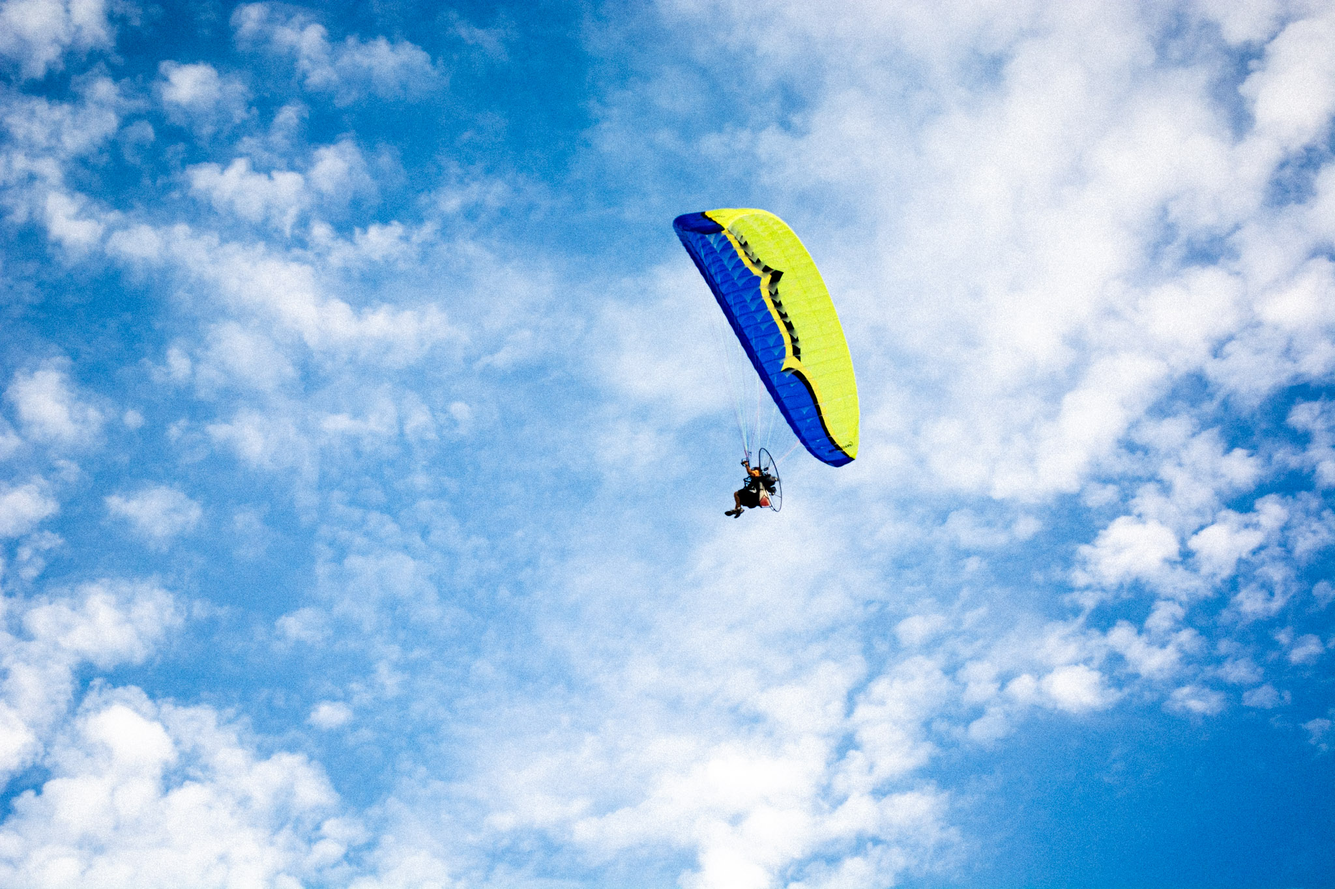
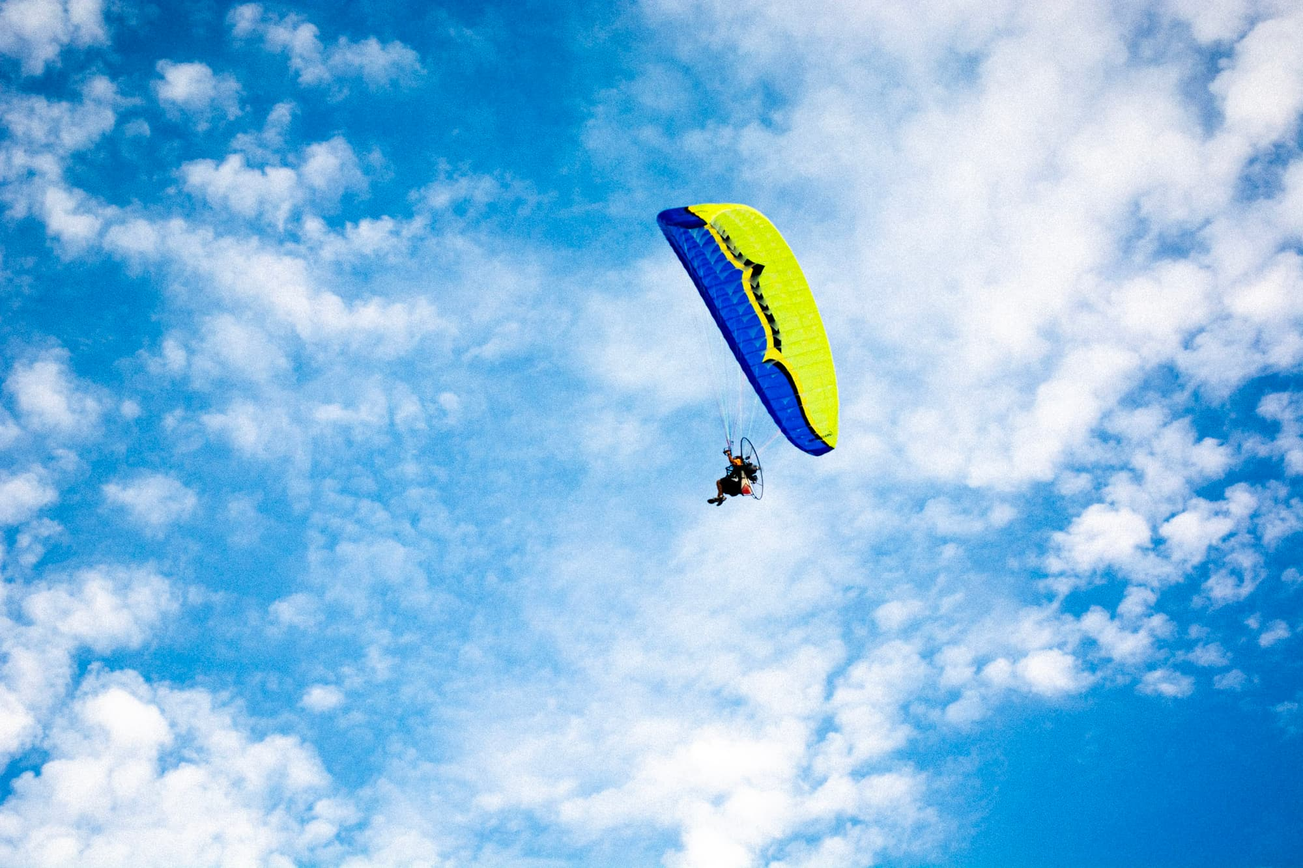
cut the image payload down to what the layout can use
Two separate sources of oversized bytes:

- enhanced-img's default width ladder for an import without a literal `sizes`
  attribute is just [width/2, width], so a 6000px original put a 3000w floor
  against a ~230-460 CSS px gallery tile. The glob now passes an explicit
  480/800/1280/2000 ladder via imagetools' `w` directive, which is the only place
  it can go — enhancedImages() takes no options.
- static/project-media/ is served verbatim (covers double as og:image, and body
  images come out of marked as raw <img src>), so nothing there gets responsive
  variants. Re-encoded once to a 2000px long edge, progressive, quality 76:
  3.4 MB -> 1.5 MB across the seven files. docs/cms.md records the budget so
  future uploads keep it.

diff --git a/src/lib/content/pictures.ts b/src/lib/content/pictures.ts
@@ -16,9 +16,33 @@ type EnhancedPicture = {
 	sources?: Record<string, string>;
 };
 
+/**
+ * The responsive width ladder every gallery picture is rendered at.
+ *
+ * enhanced-img has no plugin-level option for this (`enhancedImages()` takes no
+ * arguments), so the ladder is passed per-import as imagetools' `w` directive,
+ * which overrides the defaults enhanced-img computes. Its default for an import
+ * without a literal `sizes` attribute is just `[width / 2, width]` — two rungs.
+ * For a 6000px original that means a 3000w floor against a ~230-460 CSS px
+ * gallery tile, i.e. an order of magnitude more pixels than any slot can use.
+ *
+ * The rungs below bracket the sizes actually requested on this site:
+ *   480  — a gallery tile at 1x (~230-330 CSS px) and the mobile 45vw column
+ *   800  — a gallery tile at 2x, the homepage peek tiles, project mini-gallery
+ *   1280 — a gallery tile expanded to two columns, mobile at 3x
+ *   2000 — headroom for the expanded frame on a large hi-dpi display
+ * Nothing on the site renders wider than ~1400 device px, so the ladder stops at
+ * 2000 rather than shipping the multi-MB original as a candidate at all.
+ *
+ * imagetools clamps each rung to the intrinsic width and de-duplicates, so a
+ * 1560px original yields 480/800/1280/1560 and no upscaling ever happens.
+ *
+ * The ladder has to be written inline below: Vite parses `import.meta.glob`
+ * options statically, so a `const` reference here would silently not apply.
+ */
 const files = import.meta.glob('./pictures/*.{jpg,jpeg,png,webp}', {
 	eager: true,
-	query: { enhanced: true },
+	query: { enhanced: true, w: '480;800;1280;2000' },
 	import: 'default'
 }) as Record<string, EnhancedPicture | string>;
 

diff --git a/vite.config.ts b/vite.config.ts
@@ -4,6 +4,11 @@ import { defineConfig } from 'vite';
 import tailwindcss from '@tailwindcss/vite';
 
 export default defineConfig({
-	// enhancedImages must come before sveltekit()
+	// enhancedImages must come before sveltekit().
+	//
+	// enhancedImages() takes no options, so the responsive width ladder can't be
+	// set here — it is passed per-import as imagetools' `w` directive. See the
+	// glob in src/lib/content/pictures.ts, which is the single place the gallery's
+	// srcset rungs are defined.
 	plugins: [tailwindcss(), enhancedImages(), sveltekit()]
 });

diff --git a/docs/cms.md b/docs/cms.md
@@ -137,7 +137,13 @@ makes the existing hand-written frontmatter and CMS-written values interchangeab
 Two roots, deliberately:
 
 - **`static/project-media/`** (default) — project cover images and images embedded in
-  project bodies. Served at a real URL (`/project-media/...`), which those need.
+  project bodies. Served at a real URL (`/project-media/...`), which those need: a
+  `cover:` doubles as the page's `og:image` (scrapers want a plain JPEG at a stable
+  URL, not an `avif`/`webp` srcset), and body images are rendered from markdown by
+  `marked`, which emits raw `<img src>` with no chance to swap in a processed asset.
+  Nothing here gets responsive variants, so **keep uploads at or under 2000px on the
+  long edge** — the browser downloads whatever is in this folder at full size. The
+  committed files were re-encoded once to that budget (progressive JPEG, quality 76).
 - **`src/lib/content/pictures/`** (Gallery collection override) — gallery photos.
   Processed at build time by `@sveltejs/enhanced-img` into hashed responsive variants,
   so they're never served from that path directly and its `public_folder` is
